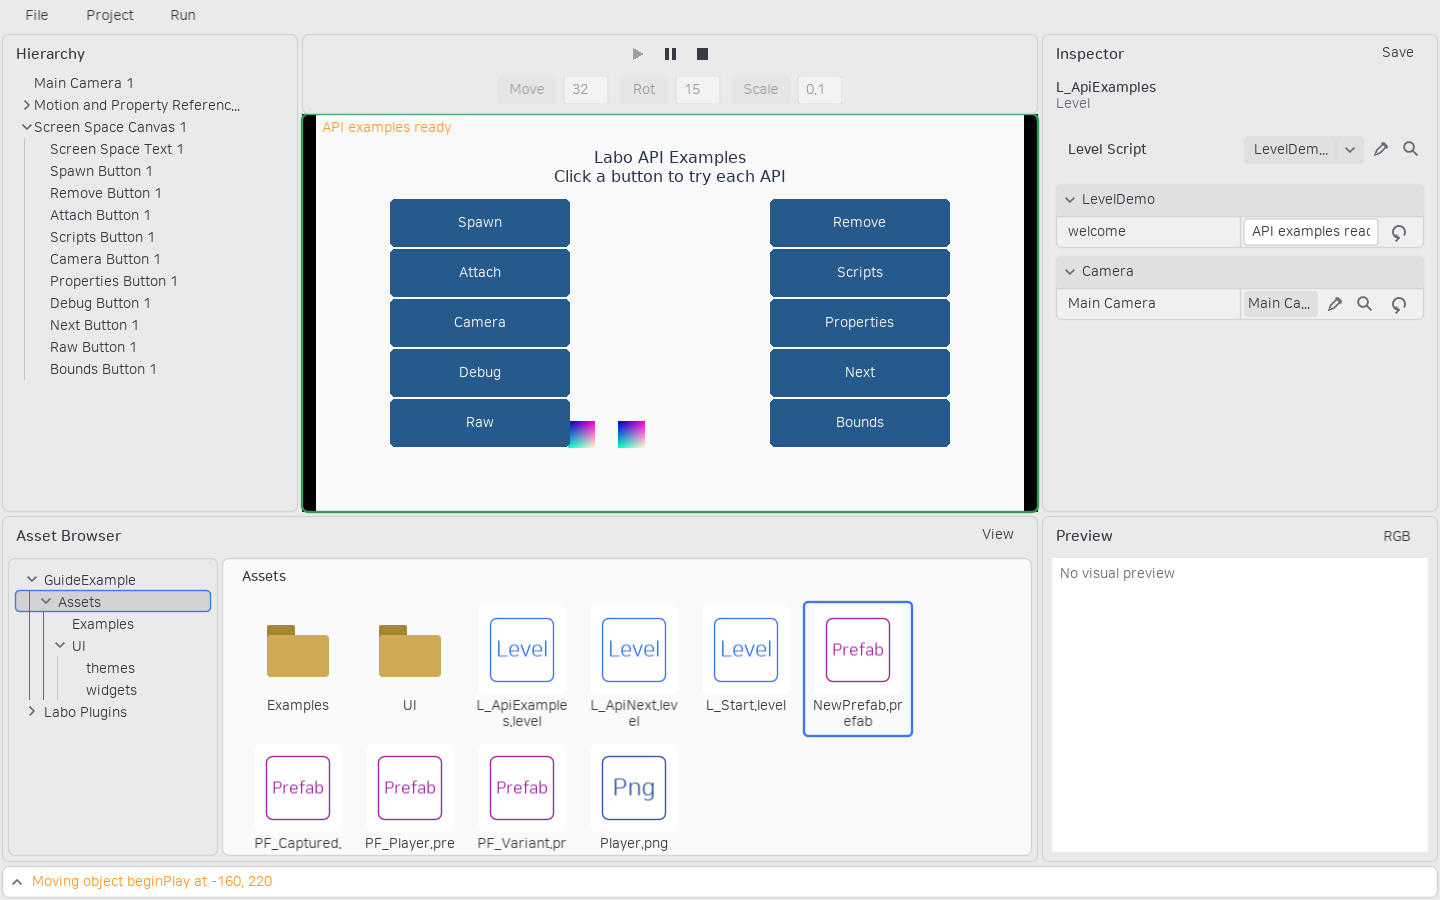
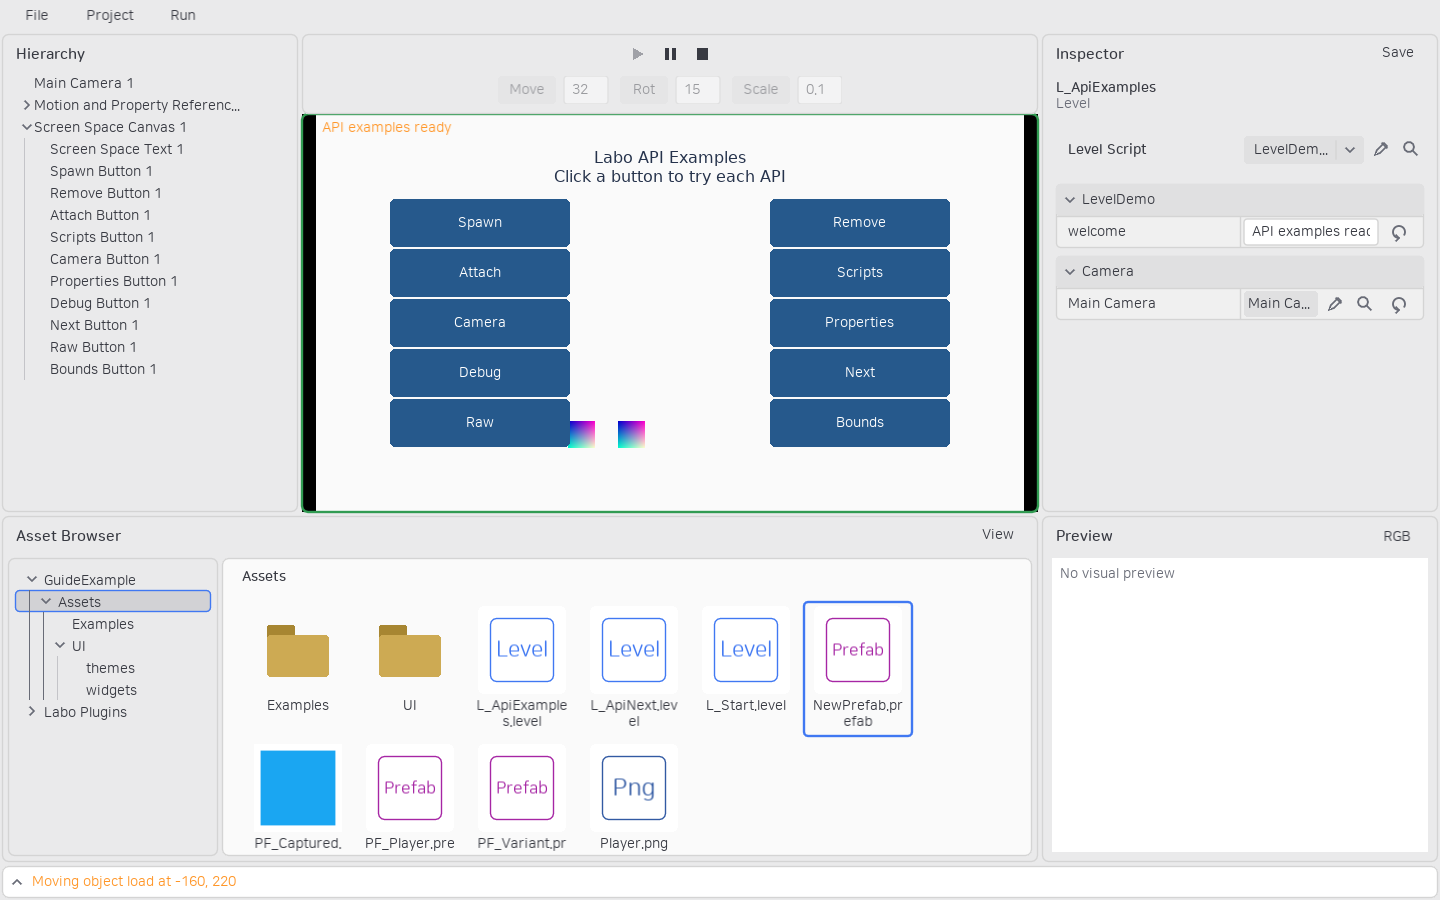
refactor: 초기화 콜백을 load로 통일

Changed region(s): [[0.1562, 0.8089, 0.25, 0.9333], [0.0938, 0.9644, 0.1875, 0.9956]]

diff --git a/docs/cli-and-export.md b/docs/cli-and-export.md
@@ -37,7 +37,7 @@ Labo-cli.exe --cli export --project D:/Games/MyGame --output D:/Games/MyGame/Bui
 | prefab child move | --prefab, --node, --destination 노드 경로, --mode attach/before/after/detach; root 앞은 로컬 자손을 새 루트로 지정하며 기존 루트의 원본 유지 |
 | level create/get/set/reset/set-parent/validate | --level, --name, --property; create --empty는 카메라 없는 레벨 |
 | level view/set-camera | 투영 정보; --instance, --script로 Main Camera 지정 |
-| level simulate | --frames 0..10000, --dt, --debug; 파일 수정 없이 beginPlay/update 결과와 스크립트 상태 반환, draw는 실행하지 않음. --debug는 에디터 로그·도형 기록도 반환 |
+| level simulate | --frames 0..10000, --dt, --debug; 파일 수정 없이 load/update 결과와 스크립트 상태 반환, draw는 실행하지 않음. --debug는 에디터 로그·도형 기록도 반환 |
 | level pointer | --space world/screen, --x, --y, --width, --height, --events-json; 이벤트마다 최신 카메라로 좌표 변환 |
 | instance add/get/list/set/reset/rename/reparent/duplicate/delete | --instance 또는 --instances, --prefab, --parent; 재정의 프로퍼티는 movement.speed처럼 사용자 이름 또는 내부 ID 포함 |
 | instance script rename | --instance, --script 이름 또는 ID, --name 새 이름 |
@@ -75,7 +75,7 @@ Prefab과 인스턴스에서 로컬 스크립트를 추가·제거·정렬합니
 & 'C:\Program Files\LOVE\love.exe' D:\Games\MyGame\Build\Game.love
 ```
 
-게임은 LÖVE 11.5가 필요하다. 독립 실행 게임 EXE·설치 프로그램은 이번 범위에 포함하지 않는다. 게임 호스트는 시작·update·렌더링 오류를 잡아 오류 화면을 표시하고, Editor Play와 같은 스크립트·참조·beginPlay 초기화 로직을 사용한다. 운영체제·드라이버나 네이티브 라이브러리 오류까지 복구한다는 계약은 아니다.
+게임은 LÖVE 11.5가 필요하다. 독립 실행 게임 EXE·설치 프로그램은 이번 범위에 포함하지 않는다. 게임 호스트는 시작·update·렌더링 오류를 잡아 오류 화면을 표시하고, Editor Play와 같은 스크립트·참조·load 초기화 로직을 사용한다. 운영체제·드라이버나 네이티브 라이브러리 오류까지 복구한다는 계약은 아니다.
 
 ## 복구와 검증
 

diff --git a/docs/guide/lua-api.md b/docs/guide/lua-api.md
@@ -16,7 +16,7 @@ local Movement = {
         projectile = {type = "prefab", default = false},
     },
 }
-function Movement:beginPlay(world)
+function Movement:load(world)
     self.elapsed = 0 -- 일반 필드는 Inspector에 노출되지 않는다.
 end
 function Movement:update(dt)
@@ -27,7 +27,9 @@ end
 return Movement
 ```
 
-`beginPlay(world)`는 한 번 초기화합니다. `update(dt)`와 `draw(context)`는 선택 사항이며 실제 구현된 콜백만 실행 목록에 등록됩니다. 실행 중인 초기화 콜백에 재진입하지 않습니다. 공통 `enabled`는 기본 true이며 false이면 update·draw·포인터 입력을 건너뜁니다. beginPlay는 활성 상태와 관계없이 한 번 실행하며 다시 활성화해도 반복하지 않습니다. 비활성 카메라는 자동 선택에서 제외합니다. 부모 오브젝트에서 자손으로, 같은 오브젝트에서는 부착 순서로 실행합니다. Prefab의 스크립트 그룹 헤더 우클릭에서 순서를 바꿉니다.
+`load(world)`는 한 번 초기화합니다. `update(dt)`와 `draw(context)`는 선택 사항이며 실제 구현된 콜백만 실행 목록에 등록됩니다. 실행 중인 초기화 콜백에 재진입하지 않습니다. 공통 `enabled`는 기본 true이며 false이면 update·draw·포인터 입력을 건너뜁니다. load는 활성 상태와 관계없이 한 번 실행하며 다시 활성화해도 반복하지 않습니다. 비활성 카메라는 자동 선택에서 제외합니다. 부모 오브젝트에서 자손으로, 같은 오브젝트에서는 부착 순서로 실행합니다. Prefab의 스크립트 그룹 헤더 우클릭에서 순서를 바꿉니다.
+
+이전 프로젝트의 `beginPlay` 선언과 직접 호출은 `load`로 바꿉니다. 호출 시점과 초기화 동작은 같습니다. 에셋을 읽거나 에디터 미리보기를 만들 때 호출하는 함수가 아닙니다.
 
 활성화한 플러그인의 `extends = "Sprite"`를 사용하거나 다른 Lua 스크립트의 에셋 ID를 부모로 지정할 수 있습니다. `require("Engine")`은 LObject·Script·일반 API를 제공하며 Camera·Sprite·Pointer·RectBounds·Canvas는 해당 플러그인을 활성화해야 사용합니다. 프로젝트 내부 일반 모듈은 `require("Helpers.Math")`로 `Assets/Helpers/Math.lua`를 읽습니다.
 

diff --git a/docs/adr/0070-load-lifecycle-callback.md b/docs/adr/0070-load-lifecycle-callback.md
@@ -1,0 +1,24 @@
+# 0070. 초기화 콜백 이름을 load로 통일한다
+
+- 상태: 승인·구현
+- 부분 대체: [0021](0021-begin-play-and-orthographic-rotation.md), [0036](0036-code-conventions-and-module-names.md), [0069](0069-script-identity-and-editor-authored-attachments.md)의 beginPlay 명칭 계약
+
+## 배경과 제약
+
+사용자는 LÖVE의 load·update·draw 흐름과 같은 이름이 더 직관적이라고 판단했다. 기존 초기화 동작과 실행 순서를 바꾸지 않고 이름만 변경한다. 에셋 파일을 읽는 동작과 실행 인스턴스 초기화는 기존처럼 구분한다.
+
+## 대안과 판단 기준
+
+beginPlay 유지와 load 전환을 비교했다. UE의 용어보다 LÖVE 사용자에게 익숙한 명칭을 우선한다. 두 이름을 계속 별칭으로 제공하는 방식은 문서와 재정의 우선순위를 복잡하게 하므로 공개 콜백 이름을 load 하나로 통일한다.
+
+## 결정 및 근거
+
+Script의 load(self, world), 레벨의 load(world), LObject:load(world)를 사용한다. 초기화 상태와 재진입 방지는 hasLoaded·loadingScripts로 이름을 맞춘다. 코어 호출 경로, 클래스 로더의 콜백 검증, 생성 템플릿, 예제, 검증 도구와 사용자 가이드를 함께 변경한다. 기존 프로젝트 코드의 beginPlay 선언과 직접 호출은 load로 수정해야 한다.
+
+초기화는 실행 World에서 인스턴스마다 한 번만 수행한다. Spawn은 생성 시 초기화하며, enabled=false여도 초기화는 수행한다. 다시 활성화해도 초기화하지 않는다. 실행 중인 초기화에 재진입하지 않고 제거된 인스턴스의 후속 초기화를 중단한다. Preview·검증 준비는 load·update를 실행하지 않는다. 레벨 전환의 준비·활성화 경계와 오류 전달은 유지한다.
+
+## 결과
+
+- 긍정: LÖVE의 load·update·draw와 같은 흐름으로 코드를 읽을 수 있다.
+- 부정: beginPlay를 사용하던 외부 프로젝트 코드는 이름 변경이 필요하다.
+- 중립: 상속, 프로퍼티, 실행 순서, 활성 상태와 에셋 저장 형식은 바뀌지 않는다.

diff --git a/docs/guide/examples.md b/docs/guide/examples.md
@@ -8,10 +8,10 @@ Scene View 위의 ▶로 실행합니다. 화면의 두 열 버튼은 Canvas 아
 
 | 버튼·오브젝트 | 확인하는 동작 |
 |---|---|
-| Motion and Property References | beginPlay·update, number·boolean·string·object·script 프로퍼티, getWorldPosition/getWorldTransform |
+| Motion and Property References | load·update, number·boolean·string·object·script 프로퍼티, getWorldPosition/getWorldTransform |
 | Inherited Transform Child | 부모의 이동·Z 회전이 자손 Sprite에 합성됨 |
 | Spawn | Prefab 템플릿 참조와 spawnLObject로 Sprite·Motion 오브젝트 생성 |
-| Raw | World.addLObject와 beginPlay로 빈 오브젝트 생성. 렌더링 스크립트가 없어 보이지 않음 |
+| Raw | World.addLObject와 load로 빈 오브젝트 생성. 렌더링 스크립트가 없어 보이지 않음 |
 | Bounds | Bounds.hitTest/getBounds, CoordinateSpace, Viewport의 월드·화면 좌표 변환 |
 | Remove | 마지막으로 생성한 오브젝트 제거 |
 | Attach | 생성한 오브젝트를 움직이는 부모에 부착·분리 |
@@ -23,7 +23,7 @@ Scene View 위의 ▶로 실행합니다. 화면의 두 열 버튼은 Canvas 아
 | 모든 버튼 | Pointer 상속, down/up/move, blockPointer, inputPriority, sortingOrder, 영역 판정 |
 | Screen Space Text | Text 스크립트의 줄바꿈·정렬·크기, Canvas 기반 화면 공간 텍스트 |
 | 편집 화면 | Camera·RectBounds·Canvas·Sprite·Pointer의 drawEditor 영역 표시 |
-| LevelDemo.lua | 레벨 beginPlay/update와 world.properties, 레벨 전환 시 새 초기화 |
+| LevelDemo.lua | 레벨 load/update와 world.properties, 레벨 전환 시 새 초기화 |
 
 Spawn을 누른 뒤 Attach·Scripts·Remove를 순서대로 확인합니다. 화면 바깥으로 드래그해서 놓아도 Pointer capture가 up 이벤트를 전달합니다. ⏸로 멈추면 Update·게임 입력·일시적 디버그 표시 수명이 멈추고, ▶는 같은 Runtime World를 이어서 실행합니다. ■는 편집 모드로 복귀합니다.
 

diff --git a/docs/guide/debugging.md b/docs/guide/debugging.md
@@ -15,7 +15,7 @@
 스크립트의 `self.owner.world.debug`, 레벨 스크립트의 `world.debug`를 사용합니다.
 
 ```lua
-function Example.beginPlay(self)
+function Example.load(self)
     local debug = self.owner.world.debug
     debug:log("Started", {color = {255, 150, 40}, marker = "!"})
     debug:screenLog("Ready", {key = "state", lifespan = 3})
@@ -52,7 +52,7 @@ function Example.drawEditor(self, context)
 end
 ```
 
-`drawEditor`는 Scene View에서만 호출합니다. `context`에는 위 도형 메서드와 `selected`, 테마 RGBA 배열 `color`가 있습니다. 매번 계산하므로 도형의 lifespan은 편집 표시에서 사용하지 않습니다. 게임 초기화가 실행되지 않으므로 `beginPlay`에서만 만든 값에 의존하지 마세요. Camera 플러그인의 카메라 범위도 이 방법으로 표시합니다.
+`drawEditor`는 Scene View에서만 호출합니다. `context`에는 위 도형 메서드와 `selected`, 테마 RGBA 배열 `color`가 있습니다. 매번 계산하므로 도형의 lifespan은 편집 표시에서 사용하지 않습니다. 게임 초기화가 실행되지 않으므로 `load`에서만 만든 값에 의존하지 마세요. Camera 플러그인의 카메라 범위도 이 방법으로 표시합니다.
 
 LaboEssentials의 Camera·RectBounds·Canvas·Sprite·Pointer는 편집 화면에서 경계를 표시합니다. Pointer는 boundsSource로 지정한 스크립트의 실제 영역을 사용합니다. 이미지가 없는 Sprite나 크기가 0인 영역은 표시하지 않습니다. **PIE의 Game View와 배포 게임에는 이 경계를 표시하지 않습니다.** Play에서 직접 호출한 일시적인 디버그 도형은 별도로 표시됩니다.
 

diff --git a/docs/level-transition.md b/docs/level-transition.md
@@ -3,7 +3,7 @@
 ```lua
 local Portal = {}
 
-function Portal.beginPlay(self, world)
+function Portal.load(self, world)
     self.world = world
 end
 
@@ -20,7 +20,7 @@ return Portal
 
 Level 클래스 안에서는 `self:openLevel(reference)`을 사용한다. 공개 모듈의 `require("Engine").openLevel(world, reference)`도 같은 함수다. 참조는 프로젝트 상대 `.level` 경로 또는 에셋 ID다. 한 World에서는 한 요청만 대기할 수 있다.
 
-`true`는 요청 접수다. 현재 프레임의 update가 끝나면 호스트가 후보 레벨의 beginPlay까지 실행하고 성공한 경우에만 교체한다. 즉시 검증 실패는 `false, error`, 접수 후 초기화 실패는 기존 `world.levelTransitionError`로 확인한다. 실패하면 현재 레벨이 계속 실행된다. 후보의 build는 준비 단계에서 한 번 실행하며 beginPlay는 실제 전환 경계에서 실행한다.
+`true`는 요청 접수다. 현재 프레임의 update가 끝나면 호스트가 후보 레벨의 load까지 실행하고 성공한 경우에만 교체한다. 즉시 검증 실패는 `false, error`, 접수 후 초기화 실패는 기존 `world.levelTransitionError`로 확인한다. 실패하면 현재 레벨이 계속 실행된다. 후보의 build는 준비 단계에서 한 번 실행하며 load는 실제 전환 경계에서 실행한다.
 
 새 레벨은 새로운 World·객체·컴포넌트와 elapsedTime 0으로 시작한다. 이전 객체 참조나 프로퍼티는 자동 전달하지 않는다. 새 레벨의 update는 다음 프레임부터 실행된다. 사용자 코드의 파일·전역 상태 등 외부 부작용은 실패 복구 대상이 아니다.
 

diff --git a/tests/TestProject/Docs/EngineGuide.md b/tests/TestProject/Docs/EngineGuide.md
@@ -5,7 +5,7 @@
 ## 오브젝트와 스크립트
 
 LObject는 Transform과 부모·자손을 가진다. 스크립트는 오브젝트를 상속하지 않고 독립 인스턴스로 부착된다.
-Lua 파일은 properties와 선택적인 beginPlay(world), update(dt), draw(context)를 가진 테이블을 반환한다.
+Lua 파일은 properties와 선택적인 load(world), update(dt), draw(context)를 가진 테이블을 반환한다.
 self는 스크립트이며 self.owner.transform, self.owner:getScript(id)로 오브젝트·다른 스크립트를 사용한다.
 일반 Lua 필드는 Inspector에 노출되지 않는다. properties에 number/string/boolean/object/script/image/prefab를 선언한다.
 group으로 프로퍼티를 묶는다. object 참조는 authoringId, script 참조는 {authoringId=ID, script="부착ID"}로 저장한다.
